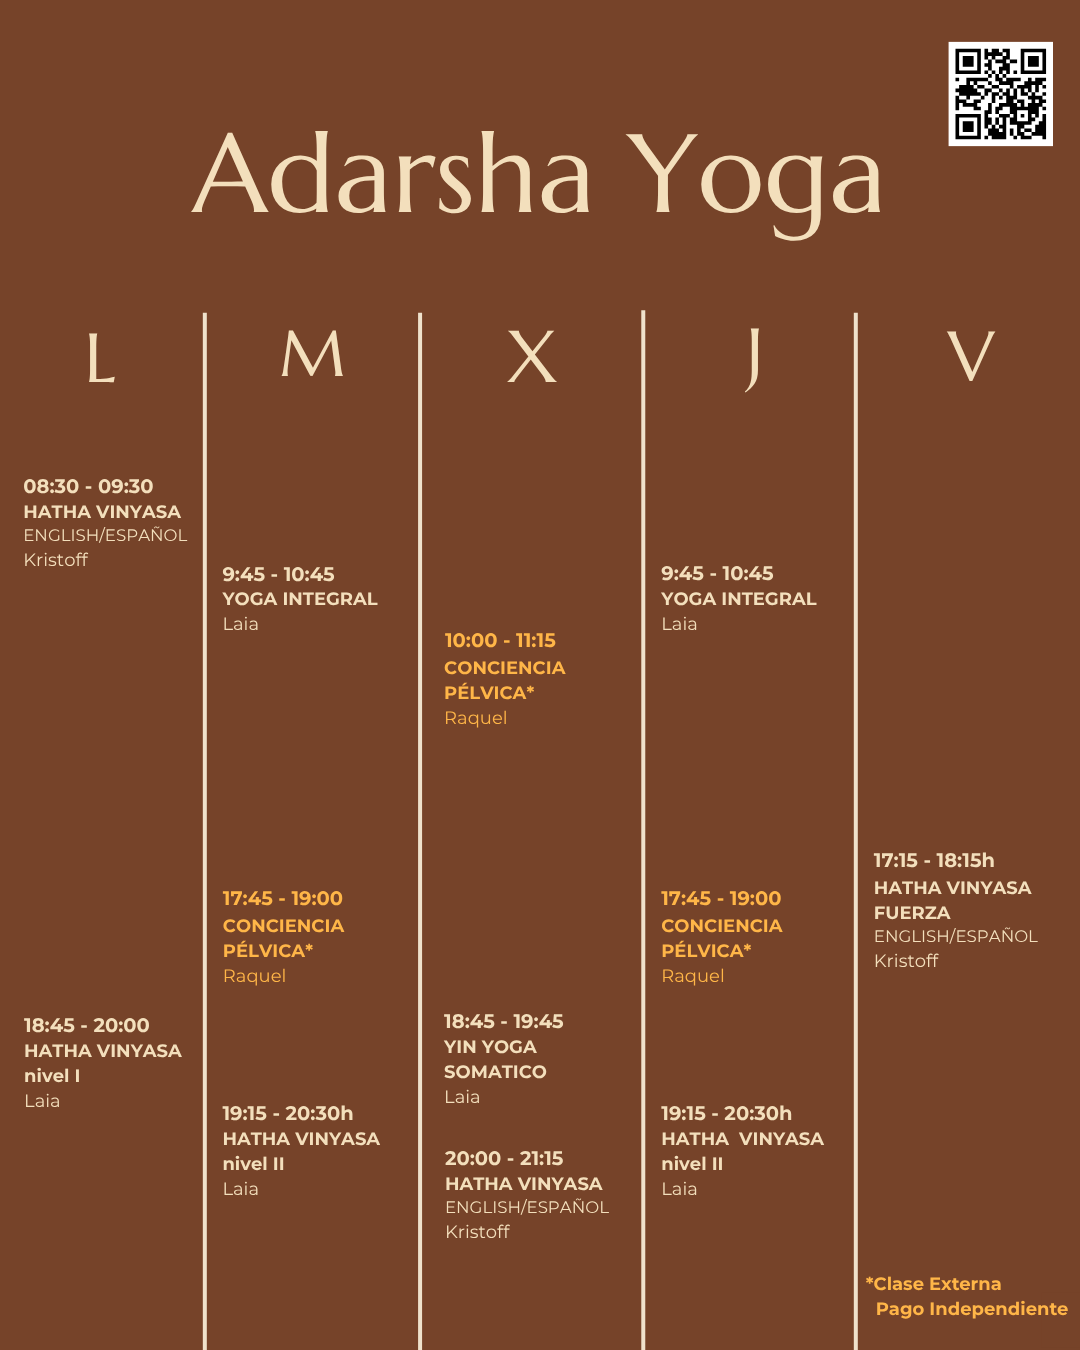
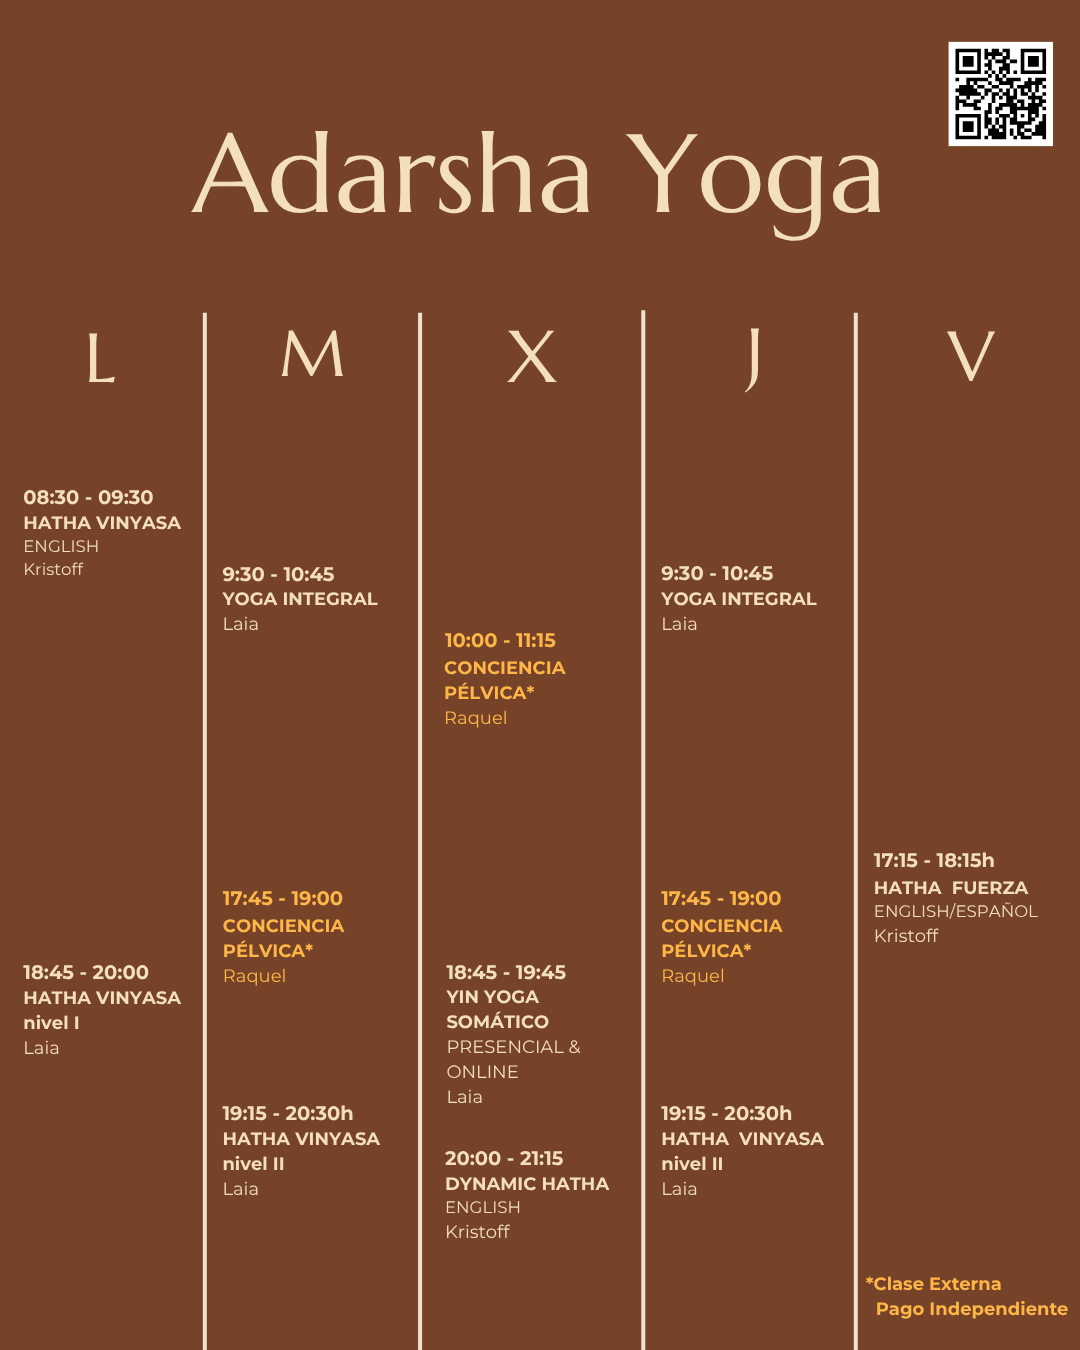
Update prices, schedule, and contact address
Rename Abono to Bono throughout the price lists.

Remove the autumn promotion: the announcement bar, the home page CTA,
and the special-offer card on Yoga, along with their now-unused CSS.

Add Bono 3 clases at 50€ and drop Bono 10 clases to 150€, with no
validity window.

Rename Yin Yoga & Pranayama to Yin Yoga Somático (presencial/online),
with a new description and a Google Meet link for students joining
online. Styles can now carry an optional meet link.

Replace the weekly schedule image.

Move the contact address to hello@adarshayoga.es.

Add a Friday slot to Visitas espacio.

diff --git a/src/styles/global.css b/src/styles/global.css
@@ -33,8 +33,6 @@ a { color: inherit; text-underline-offset: 3px; }
 p, h1, h2, h3, h4, h5, h6 { margin: 0; }
 
 .container { width: min(var(--page), calc(100% - 40px)); margin-inline: auto; }
-.announcement-bar { min-height: 42px; display: flex; align-items: center; justify-content: center; gap: 8px; padding: 9px 20px; background: var(--clay); color: var(--brown); font: 700 16px/1.35 var(--display); text-align: center; text-decoration: none; border-bottom: 1px solid rgba(118,74,50,.25); }
-.announcement-bar:hover { background: var(--brown); color: #fff; }
 .site-header { height: 293px; background: #fff; }
 .nav { height: 100%; display: flex; flex-direction: column; align-items: center; justify-content: flex-start; }
 .brand { width: auto; margin-top: 38px; }
@@ -48,8 +46,6 @@ p, h1, h2, h3, h4, h5, h6 { margin: 0; }
 .display { font-family: var(--display); font-weight: 400; color: var(--brown); }
 .btn-outline { display: inline-flex; align-items: center; justify-content: center; min-height: 40px; padding: 7px 11px; border: 1px solid #000; color: #000; font-size: 14px; line-height: 1; text-decoration: none; background: #fff; }
 .btn-outline:hover { background: #000; color: #fff; }
-.btn-offer { border-color: var(--brown); background: var(--clay); color: var(--brown); }
-.btn-offer:hover { border-color: var(--brown); background: var(--brown); color: #fff; }
 
 /* Home */
 .home-intro { display: grid; grid-template-columns: 1fr 1fr; min-height: 789px; }
@@ -116,20 +112,13 @@ p, h1, h2, h3, h4, h5, h6 { margin: 0; }
 .yoga-style-list { margin: 32px 0 0; padding-left: 28px; }
 .yoga-style-list li + li { margin-top: 30px; }
 .yoga-style-list strong { color: var(--brown); font-weight: 700; }
+.yoga-style-meet { display: block; width: fit-content; margin-top: 10px; color: var(--brown); font-weight: 700; text-decoration: underline; text-underline-offset: 3px; }
+.yoga-style-meet:hover { text-decoration: none; }
 .yoga-photo-stack { display: grid; align-content: center; gap: 18px; }
 .yoga-photo-stack img { height: 731px; object-fit: cover; }
 .yoga-prices-band { background: #7b4c31; color: #fff; }
 .yoga-prices { display: grid; gap: 34px; padding: 48px 0 54px; text-align: center; }
 .yoga-prices h2 { font: 400 30px/1.25 var(--display); color: #fff; }
-.special-offer { width: min(440px, 100%); margin: 0 auto; padding: 26px 32px; border: 1px solid rgba(255,255,255,.55); background: #ddcbc0; color: var(--brown); }
-.special-offer p { font: 700 17px/1.2 var(--display); letter-spacing: 0; text-transform: uppercase; }
-.special-offer h2 { margin-top: 7px; font-size: 29px; color: var(--brown); }
-.special-offer-options { display: flex; flex-direction: column; gap: 0; margin-top: 18px; border-top: 1px solid rgba(118,67,41,.28); border-bottom: 1px solid rgba(118,67,41,.28); }
-.special-offer-options strong { display: grid; place-items: center; min-height: 64px; padding: 14px 20px; font-size: 18px; line-height: 1.35; font-weight: 700; text-align: center; text-wrap: balance; }
-.special-offer-options strong + strong { border-top: 1px solid rgba(118,67,41,.28); }
-.special-offer span { display: block; margin-top: 13px; font-size: 14px; line-height: 1.4; text-wrap: balance; }
-.special-offer .btn-outline { margin-top: 16px; border-color: var(--brown); background: var(--brown); color: #fff; }
-.special-offer .btn-outline:hover { background: #000; border-color: #000; color: #fff; }
 .price-columns { display: grid; grid-template-columns: repeat(2, minmax(0, 1fr)); gap: 52px; }
 .price-column { padding: 8px 28px 0; }
 .method-section h2 { font: 400 34px/1.25 var(--display); color: var(--brown); }
@@ -230,7 +219,6 @@ p, h1, h2, h3, h4, h5, h6 { margin: 0; }
 
 @media (max-width: 760px) {
   body { font-size: 15px; line-height: 1.7; }
-  .announcement-bar { min-height: 40px; padding-inline: 18px; font-size: 15px; }
   .site-header { height: auto; min-height: 238px; }
   .brand { margin-top: 24px; }
   .brand img { height: 130px; }
@@ -264,11 +252,6 @@ p, h1, h2, h3, h4, h5, h6 { margin: 0; }
   .yoga-photo-stack img { height: 480px; }
   .method-inner, .space-details-inner { grid-template-columns: 1fr; gap: 45px; }
   .yoga-prices { gap: 30px; padding: 42px 20px 46px; }
-  .special-offer { padding: 22px 20px 24px; }
-  .special-offer p { font-size: 16px; }
-  .special-offer h2 { font-size: 25px; }
-  .special-offer-options { margin-top: 16px; }
-  .special-offer-options strong { min-height: 0; padding: 13px 8px; font-size: 16px; }
   .price-columns { grid-template-columns: 1fr; gap: 30px; }
   .price-column { padding: 0; }
   .method-section { padding: 64px 0; }

diff --git a/src/content/site.ts b/src/content/site.ts
@@ -34,10 +34,6 @@ export const siteMeta = {
   navigationLabel: "Navegación principal",
   homeLabel: "Adarsha Yoga inicio",
   copyright: "© Adarsha Yoga 2026",
-  announcement: {
-    text: "🍂 ¡Hola yoguis! Descubre nuestras ofertas de otoño para nuevos alumnos 🌞 →",
-    href: "/yoga/#precios",
-  },
 };
 
 export const contact = {
@@ -47,7 +43,7 @@ export const contact = {
   addressLines: ["Calle Girona 166", "Entresuelo 3a", "08037 Barcelona"],
   contactHeading: "Contacto",
   intro: "Ponte en contacto con nosotros enviándonos un mail :-)",
-  email: "hello@espaiadarsha.com",
+  email: "hello@adarshayoga.es",
   instagram: { prefix: "Instagram:", label: "@adarshayoga.bcn", href: "https://www.instagram.com/adarshayoga.bcn/" },
   mapUrl: "https://www.google.com/maps?q=Espai%20Adarsha%20Yoga%20Studio%2C%20Barcelona&output=embed",
 };
@@ -95,8 +91,6 @@ export const homeCopy = {
   ],
   scheduleCta: "    HORARIO    ",
   scheduleHref: "/yoga/",
-  ofertaCta: "¡OFERTA OTOÑO! 🧘🏽",
-  ofertaHref: "/yoga/#precios",
   approachCta: "Nuestro enfoque",
   approachHref: "/yoga/#metodo",
   practiceHeading: "¿Cómo te gustaría practicar yoga?",
@@ -130,8 +124,9 @@ export const yogaCopy = {
       body: "Una modalidad más suave para quienes buscan un ritmo pausado y consciente, ya sea que busques una clase para aprender las bases, o practicar durante el embarazo, o en la etapa de la madurez. Nos enfocamos en técnicas de respiración, posturas estables, aprender la alineación y relajación profunda para restaurar la vitalidad y la movilidad de todo el cuerpo.",
     },
     {
-      title: "Yin Yoga & Pranayama",
-      body: "Combinamos técnicas de respiración para serenar la mente con posturas de Yin Yoga y yoga restaurativo, que invitan a la meditación y a la liberación de tensiones. Es una práctica diseñada para soltar el ritmo diario, restaurar el sistema nervioso y reencontrar el equilibrio interior.",
+      title: "Yin Yoga Somático (presencial/online)",
+      body: "Diseñada para soltar el ritmo diario, restaurar el sistema nervioso y reencontrar el equilibrio interior. Combinamos técnicas de respiración suave con movimiento somático y posturas restaurativas para liberar tensiones y acceder a un estado meditativo.",
+      meet: { label: "Conéctate por Google Meet", href: "https://meet.google.com/ijy-vpfn-kjo" },
     },
   ],
   methodTitle: "Un método basado en la progresión",
@@ -140,24 +135,14 @@ export const yogaCopy = {
     { title: "Evolución Tangible", body: "Al trabajar en grupos reducidos, realizamos un seguimiento real del progreso de cada alumno, ajustando las posturas y la intensidad según tus necesidades." },
     { title: "Base Sólida y Segura", body: "Ponemos especial énfasis en la alineación y la respiración. Las clases están organizadas por grupos de posturas para preparar el cuerpo de forma progresiva y segura, permitiendo avanzar con confianza en cada movimiento de la práctica." },
   ],
-  specialOffer: {
-    eyebrow: "Oferta Otoño",
-    title: "Promoción para alumnos nuevos",
-    deadline: "Oferta válida hasta el 31 de octubre para residentes en Barcelona",
-    items: [
-      "Clase de prueba gratis",
-      "Semana de prueba por 30€",
-    ],
-    cta: "Escríbenos y reserva tu primera clase",
-    href: "/contacto/#contacto",
-  },
   prices: [
     {
       title: "Clases Grupales",
       items: [
         "Mensualidad 5 clases / mes: 65€",
         "Mensualidad clases ilimitadas: 90€",
-        "Abono 10 clases: 165€ (tres meses)",
+        "Bono 3 clases: 50€",
+        "Bono 10 clases: 150€",
         "Clase suelta: 20€",
       ],
     },
@@ -165,8 +150,8 @@ export const yogaCopy = {
       title: "Clases Individuales",
       items: [
         "Sesión individual + secuencia personalizada: 60€",
-        "Abono 4 clases individuales: 180€",
-        "Abono 10 clases individuales: 400€",
+        "Bono 4 clases individuales: 180€",
+        "Bono 10 clases individuales: 400€",
       ],
     },
   ],
@@ -208,7 +193,7 @@ export const espacioCopy = {
     contactHeading: "Contacto",
     visitsHeading: "Visitas espacio",
   },
-  visits: ["Lunes 18:15 - 18:30", "Jueves 13:15 - 13:30"],
+  visits: ["Lunes 18:15 - 18:30", "Jueves 13:15 - 13:30", "Viernes 18:30 - 18:45"],
 };
 
 export const colaboradoresCopy = {

diff --git a/README.md b/README.md
@@ -138,13 +138,13 @@ There is no `robots.txt` in this repository; Cloudflare serves an auto-generated
 one. Adding `public/robots.txt` would override it, so copy over Cloudflare's
 content-signal declarations if you ever add one.
 
-The contact address `hello@espaiadarsha.com` still uses the old domain. Email
-routing is independent of the website and was intentionally left in place; moving
-it needs a separate Email Routing and SMTP2GO setup on the new domain.
+The contact address is `hello@adarshayoga.es`. Email routing is independent of
+the website, so the address shown on the site only resolves once Email Routing and
+SMTP2GO are configured on the `adarshayoga.es` zone.
 
 ## Forms
 
-The contact form submits through FormSubmit to `hello@espaiadarsha.com`.
+The contact form submits through FormSubmit to `hello@adarshayoga.es`.
 
 The first real submission may trigger a FormSubmit confirmation email. Open that email and activate the endpoint once.
 
